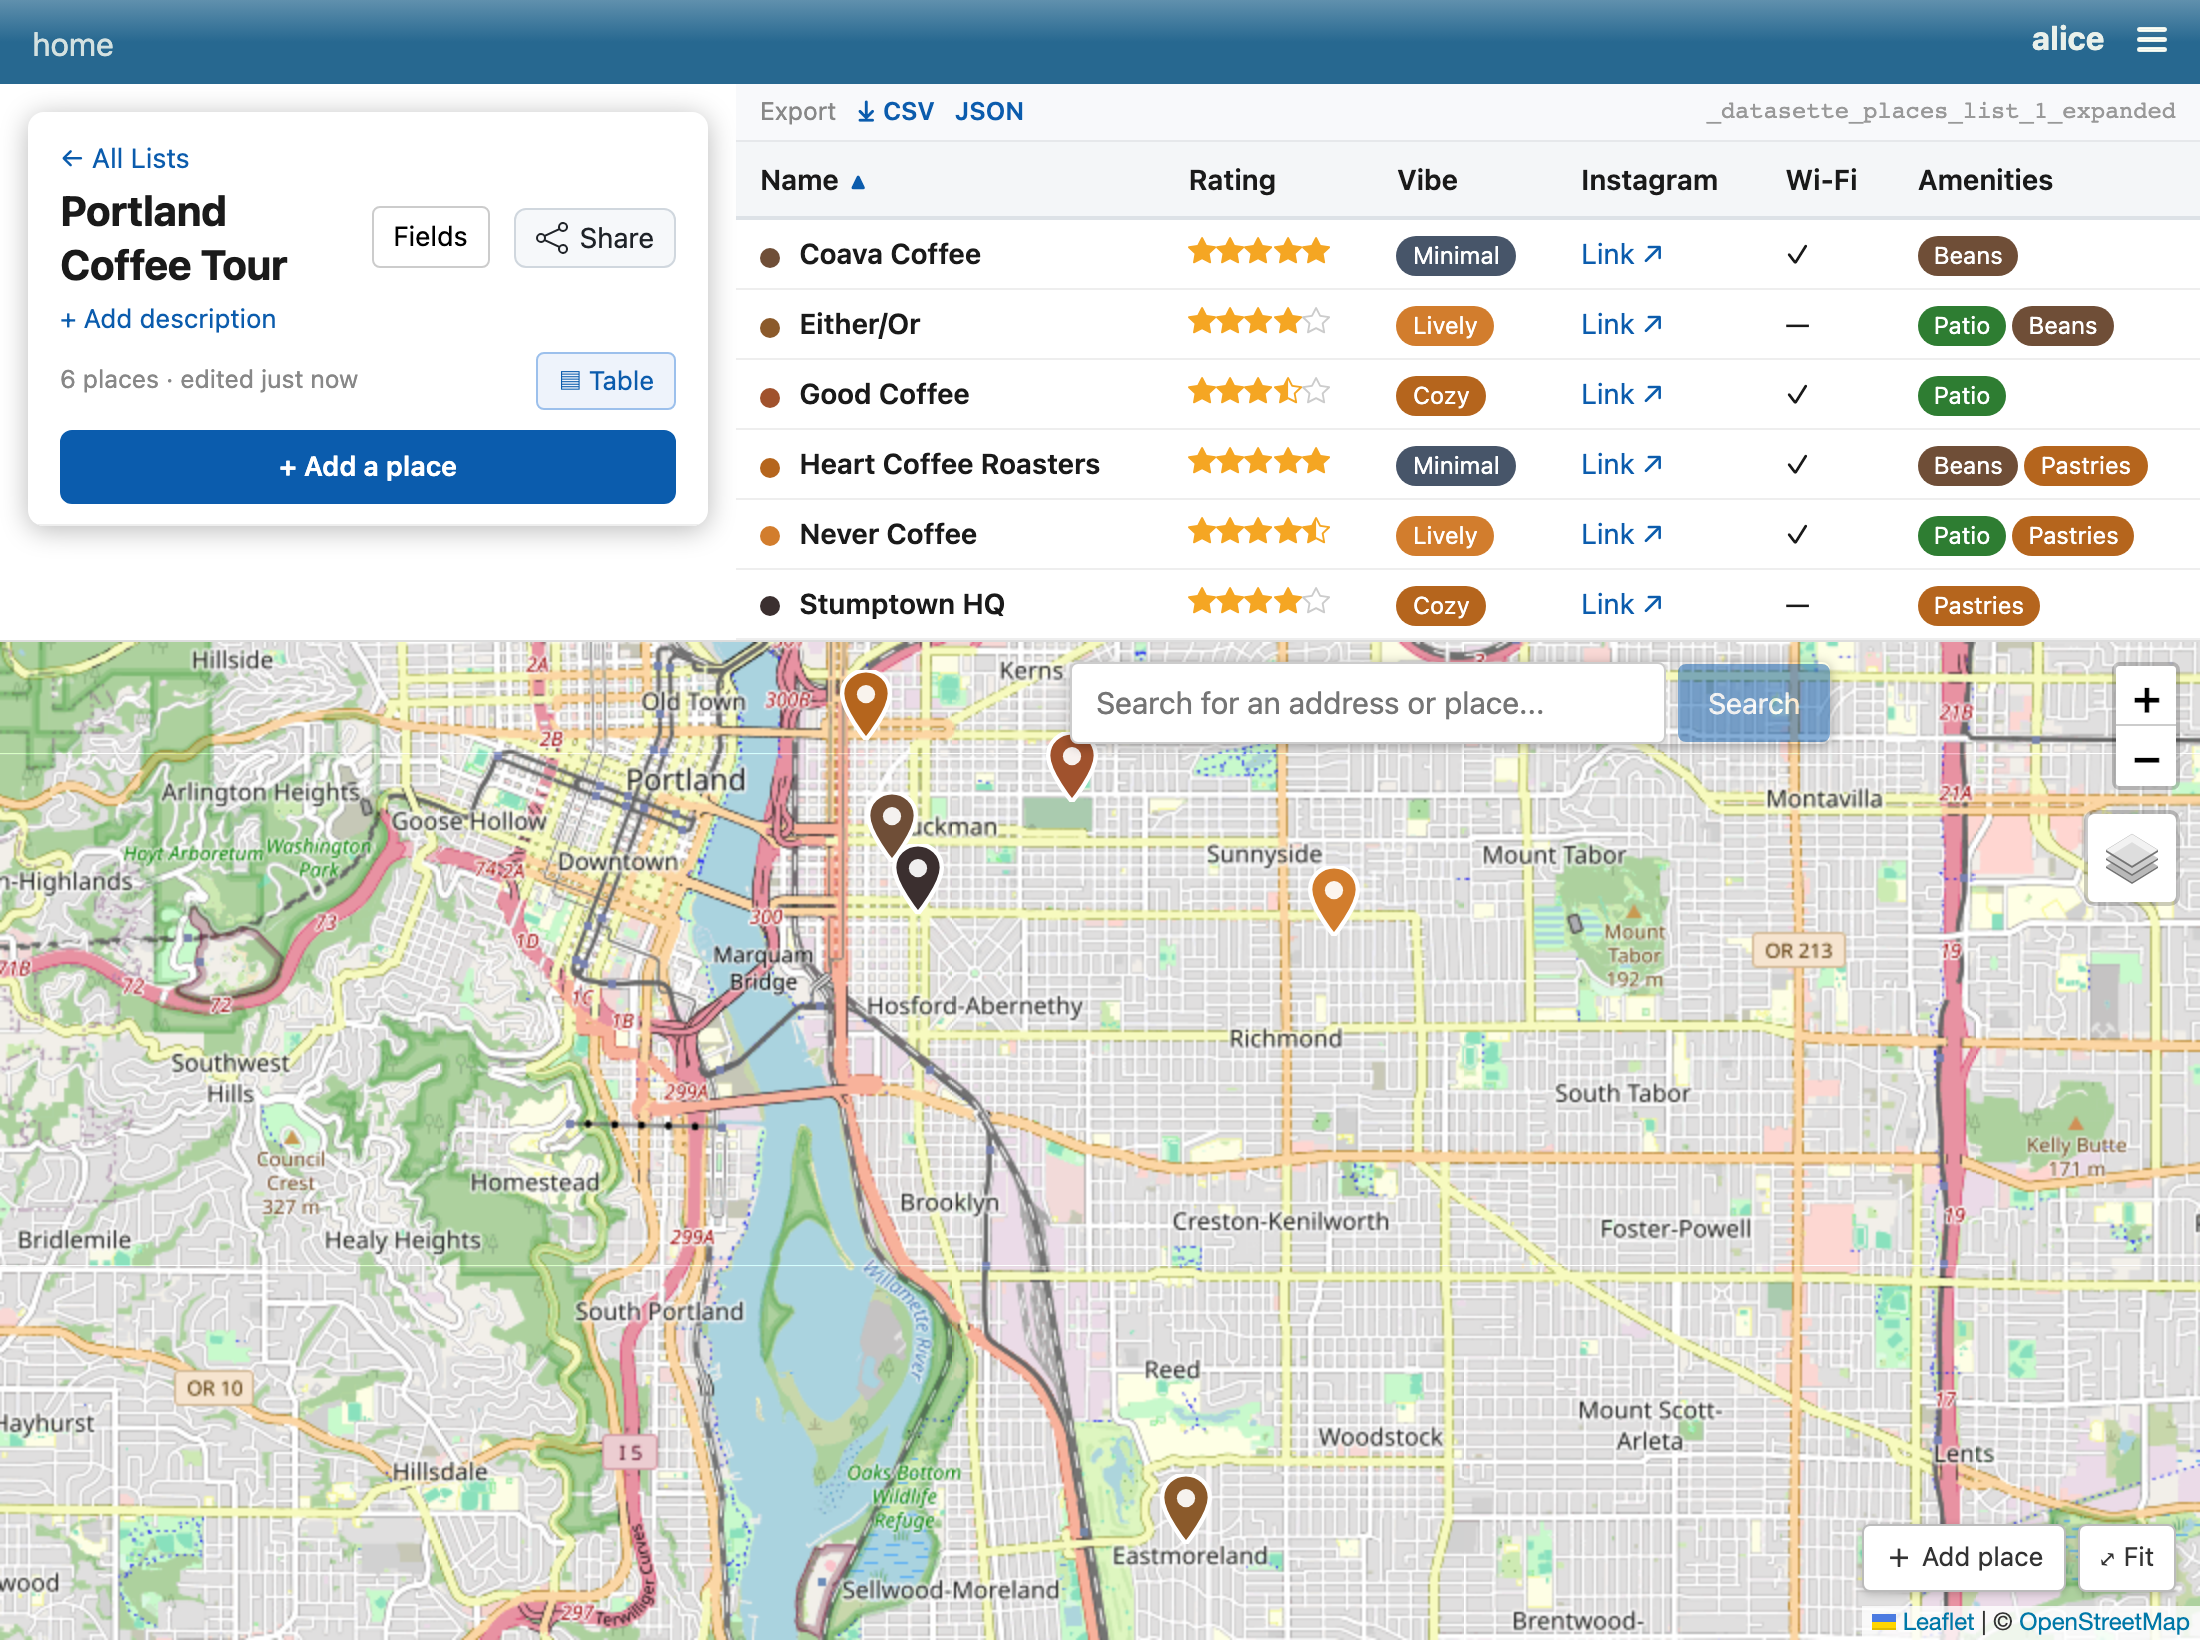
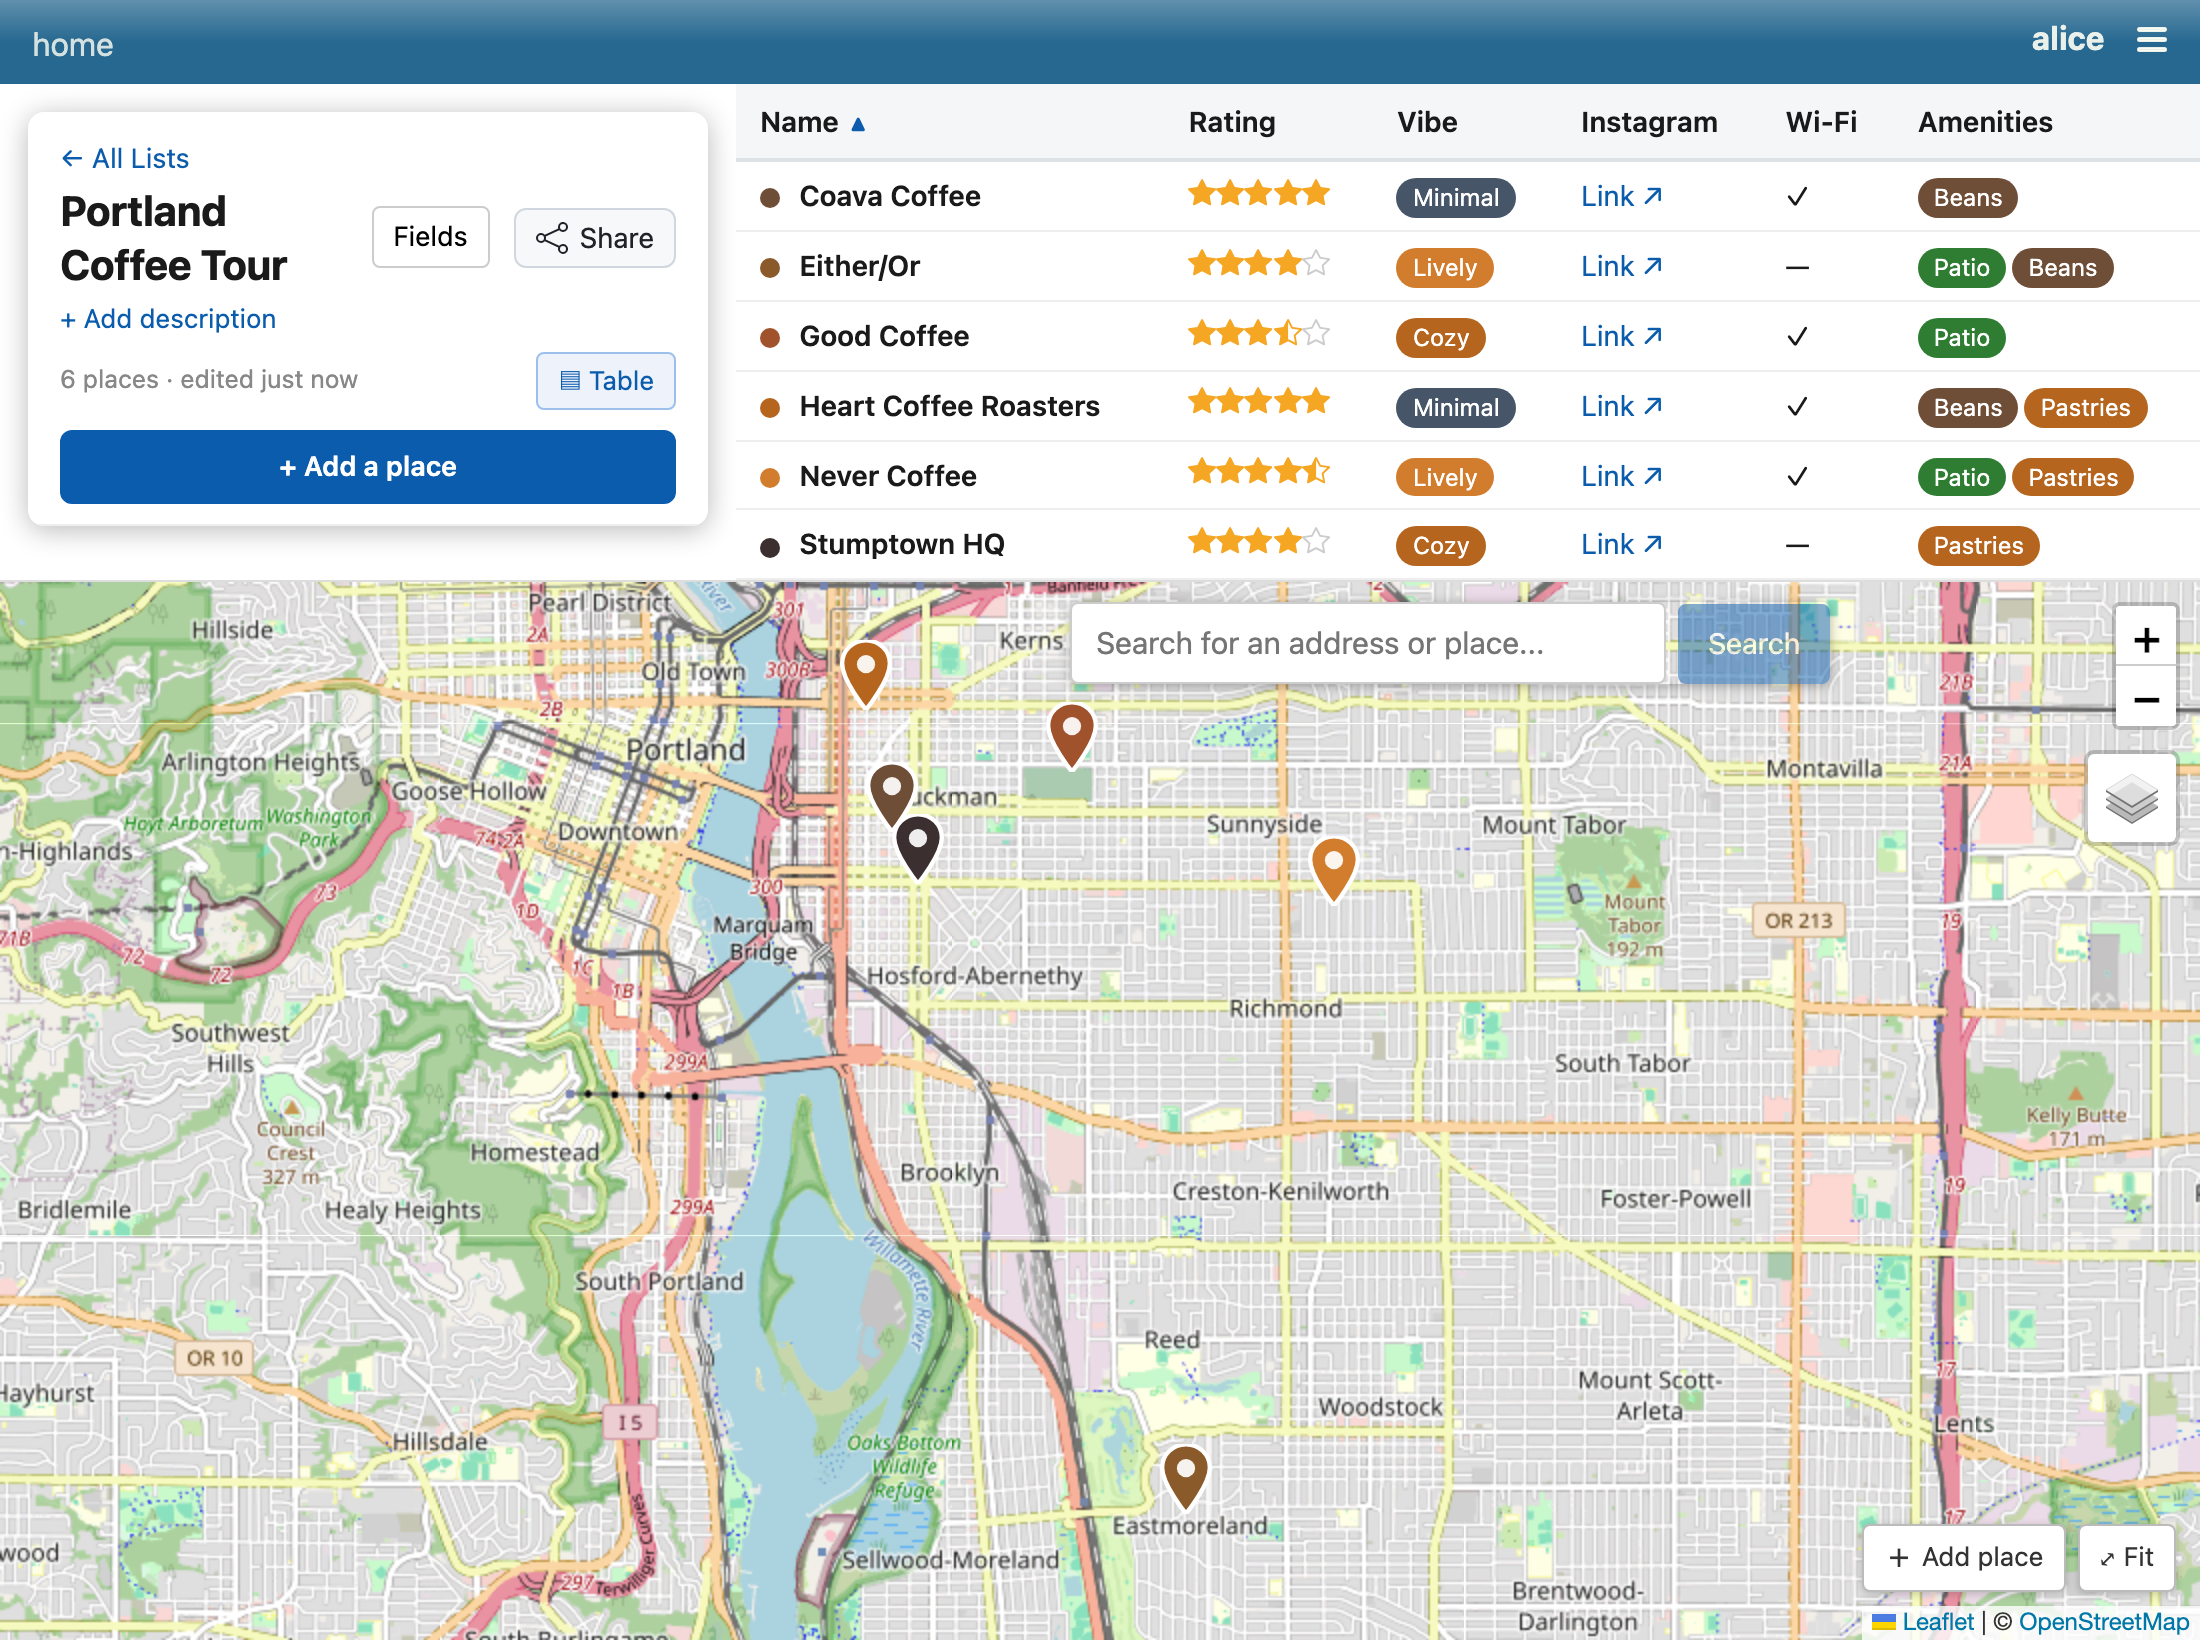
Remove the SQL-view export endpoint + UI
The /-/places/api/lists/{id}/table JSON/CSV endpoint and the table-view
export links were a stopgap exposure of the per-list expanded view, which
lives in the (non-browsable) internal database. Exposing it properly belongs
to a separate storage refactor, so pull it for now. The expanded view itself
(db.rebuild_list_artifacts) stays — it still backs uniqueness indexes and is
the artifact that refactor will surface.

diff --git a/frontend/src/lib/PlacesApp.svelte b/frontend/src/lib/PlacesApp.svelte
@@ -369,14 +369,6 @@
     <div class="stage" class:split={viewMode === "table"}>
     {#if viewMode === "table"}
       <section class="table-pane">
-        <div class="table-export">
-          <span>Export</span>
-          <a href={`/-/places/api/lists/${listId}/table?_format=csv`}>⤓ CSV</a>
-          <a href={`/-/places/api/lists/${listId}/table`} target="_blank" rel="noopener">JSON</a>
-          <code title="A SQL view in the internal database — one json_extract column per field"
-            >{`_datasette_places_list_${listId}_expanded`}</code
-          >
-        </div>
         <PlacesTable
           {places}
           {fields}
@@ -814,33 +806,6 @@
     padding-left: 368px;
     border-bottom: 1px solid #ddd;
   }
-  .table-export {
-    position: sticky;
-    top: 0;
-    z-index: 2;
-    display: flex;
-    align-items: center;
-    gap: 10px;
-    padding: 5px 12px;
-    background: #f8f9fb;
-    border-bottom: 1px solid #e6e8eb;
-    font-size: 0.78em;
-    color: #888;
-  }
-  .table-export a {
-    color: #0b5cad;
-    text-decoration: none;
-    font-weight: 600;
-  }
-  .table-export a:hover {
-    text-decoration: underline;
-  }
-  .table-export code {
-    margin-left: auto;
-    color: #999;
-    font-size: 0.95em;
-  }
-
   /* Small, secondary toggle that matches the Fields/Share panel buttons rather
      than a big primary call-to-action. Active = subtly tinted, not filled. */
   .view-toggle-btn {

diff --git a/tests/test_fields.py b/tests/test_fields.py
@@ -200,45 +200,6 @@ async def test_toggle_unique_off_drops_index(ds):
     assert _idx_count(rows) == 0
 
 
-# --- Expanded view export endpoint -------------------------------------------
-
-
-@pytest.mark.asyncio
-async def test_table_endpoint_json_and_csv(ds):
-    list_id = await _create_list(ds)
-    await _add_field(ds, list_id, key="rating", label="Rating", type="rating")
-    await _add_field(ds, list_id, key="cuisine", label="Cuisine", type="text")
-    await _add_place(
-        ds, list_id, name="Thai Place", metadata={"rating": 4, "cuisine": "thai"}
-    )
-
-    resp = await ds.client.get(f"/-/places/api/lists/{list_id}/table")
-    assert resp.status_code == 200
-    data = resp.json()
-    assert data["view"] == f"_datasette_places_list_{list_id}_expanded"
-    assert "rating" in data["columns"] and "cuisine" in data["columns"]
-    assert data["rows"][0]["rating"] == 4
-    assert data["rows"][0]["cuisine"] == "thai"
-    assert data["rows"][0]["name"] == "Thai Place"
-
-    csv_resp = await ds.client.get(f"/-/places/api/lists/{list_id}/table?_format=csv")
-    assert csv_resp.status_code == 200
-    assert "text/csv" in csv_resp.headers["content-type"]
-    body = csv_resp.text
-    assert "rating" in body.splitlines()[0]
-    assert "Thai Place" in body
-
-
-@pytest.mark.asyncio
-async def test_table_endpoint_no_fields(ds):
-    # A list that never had fields still returns base columns (view built lazily).
-    list_id = await _create_list(ds)
-    await _add_place(ds, list_id, name="A")
-    resp = await ds.client.get(f"/-/places/api/lists/{list_id}/table")
-    assert resp.status_code == 200
-    assert "name" in resp.json()["columns"]
-
-
 # --- Value validation on places ----------------------------------------------
 
 

diff --git a/datasette_places/routes/fields.py b/datasette_places/routes/fields.py
@@ -6,8 +6,6 @@ dynamic artifacts (expanded view + unique indexes) inside ``PlacesDB`` so they
 stay in sync with the defs.
 """
 
-import csv
-import io
 import json
 
 from datasette import Response
@@ -46,43 +44,6 @@ async def api_list_fields(datasette, request, list_id: int):
     rows = await db.select_fields_for_list(list_id=list_id)
     return Response.json(
         {"list_id": list_id, "fields": [field_payload(r) for r in rows]}
-    )
-
-
-@router.GET(r"^/-/places/api/lists/(?P<list_id>\d+)/table$")
-async def api_list_table(datasette, request, list_id: int):
-    """The list's expanded SQL view as JSON (or CSV with ``?_format=csv``).
-
-    Backed by the real per-list view (``json_extract`` column per field), so it
-    exposes/exercises that view. ``view`` names it for SQL against the DB.
-    """
-    await ensure_places_view(datasette, request, list_id)
-    db = places_db(datasette)
-    pl = await db.select_list_by_id(list_id)
-    if pl is None:
-        return Response.json({"error": "List not found"}, status=404)
-
-    columns, rows = await db.select_expanded_rows(list_id=list_id)
-    view = db.expanded_view_name(list_id)
-
-    if request.args.get("_format") == "csv":
-        buf = io.StringIO()
-        writer = csv.writer(buf)
-        writer.writerow(columns)
-        writer.writerows(rows)
-        return Response(
-            buf.getvalue(),
-            content_type="text/csv; charset=utf-8",
-            headers={"content-disposition": f'attachment; filename="{view}.csv"'},
-        )
-
-    return Response.json(
-        {
-            "list_id": list_id,
-            "view": view,
-            "columns": columns,
-            "rows": [dict(zip(columns, row)) for row in rows],
-        }
     )
 
 

diff --git a/datasette_places/db.py b/datasette_places/db.py
@@ -347,28 +347,6 @@ class PlacesDB:
 
         return await self.database.execute_write_fn(write)
 
-    async def select_expanded_rows(
-        self, *, list_id: int
-    ) -> tuple[list[str], list[tuple]]:
-        """Read the list's expanded SQL view (one column per declared field).
-
-        Ensures the view is current first (idempotent rebuild), so a list whose
-        view was never built — e.g. it has no fields yet — still returns the base
-        columns. Returns ``(column_names, rows)``.
-        """
-
-        def read(conn):
-            _rebuild_list_artifacts(conn, list_id)
-            cur = conn.execute(f"SELECT * FROM {quote_identifier(_view_name(list_id))}")
-            cols = [d[0] for d in cur.description]
-            return cols, cur.fetchall()
-
-        return await self.database.execute_write_fn(read)
-
-    def expanded_view_name(self, list_id: int) -> str:
-        """The SQL view name for a list (for display / SQL against the DB)."""
-        return _view_name(list_id)
-
 
 # ----------------------------------------------------------------------
 # Dynamic per-list DDL (expanded view + uniqueness indexes)

diff --git a/README.md b/README.md
@@ -53,8 +53,7 @@ Place values are stored as a single JSON object in each place's
 `metadata_json`, and a per-list SQL view
 (`_datasette_places_list_<id>_expanded`) expands each field into its own column
 via `json_extract`. The same fields drive a spreadsheet-style **Table view** of
-the list, toggled from the floating panel. The table header links to **CSV** and
-**JSON** exports of that view:
+the list, toggled from the floating panel:
 
 ![The table view: one row per place, one column per custom field](docs/screenshots/table.png)
 
